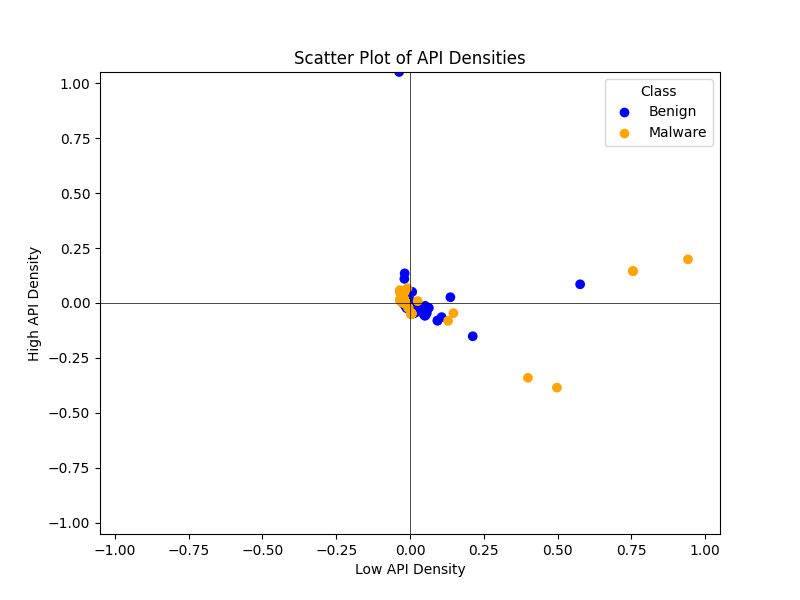
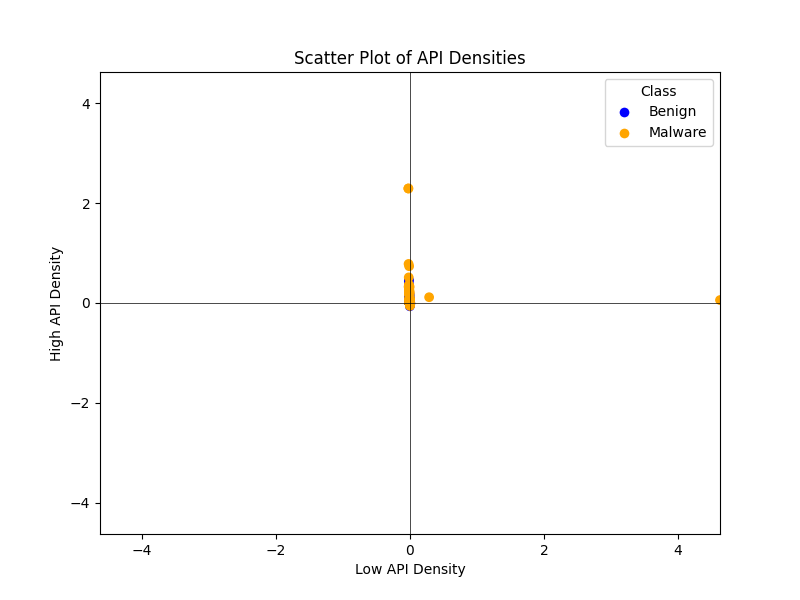
Optimize lime normal

diff --git a/lime_normal.py b/lime_normal.py
@@ -8,7 +8,10 @@ import pandas as pd
 import mlflow
 from lime.lime_tabular import LimeTabularExplainer
 from tqdm import tqdm
+import multiprocessing
+import warnings
 
+warnings.filterwarnings("ignore")
 #%% Parameters
 params = dvc.api.params_show()
 mca_data = pd.read_csv(params["train"]["mca"])
@@ -16,15 +19,28 @@ data_ben = np.load(f"{params['train']['benign']}")
 df_ben = pd.DataFrame(data_ben)
 #%% Load models
 explainer = LimeTabularExplainer(mca_data.values[:,:-1], feature_names=mca_data.columns[:-1], class_names=['Benign', 'Malicious'])
-mca = mlflow.pyfunc.load_model(f"runs:/{params['malgan']['id']}/mca")
-mca_classifier = mlflow.pyfunc.load_model(f"runs:/{params['malgan']['id']}/mca_classifier")
+mca = mlflow.pyfunc.load_model(f"runs:/{params['experiment']['id']}/mca")
+mca_classifier = mlflow.sklearn.load_model(f"runs:/{params['experiment']['id']}/mca_classifier")
 
+#%% Transform dataset
+print("Transforming benign dataset to MCA values")
+df = mca.predict(df_ben)
 #%% Get set
 normal = set()
-for i, obf in tqdm(df_ben.iterrows(), total=len(df_ben)):
-    exp = explainer.explain_instance(mca.predict([obf.values]).values[0], mca_classifier.predict_proba)
-    normal = normal | set([name for name, _ in exp.as_list()])
+
+def process_example(example):
+    exp = explainer.explain_instance(example, mca_classifier.predict_proba, num_samples=2000)
+    return set([name for name, _ in exp.as_list()])
+
+if __name__ == '__main__':
+    print("Processing benign examples")
+    with multiprocessing.Pool(processes=4) as pool:
+        results = tqdm(pool.imap_unordered(process_example, [example for _, example in df.iterrows()]), total=len(df), desc="Collecting normal features")
+        iter = tqdm(results, desc="Combining results")
+        for result in iter:
+            normal |= result
+            iter.set_description(f"Combining results ({len(normal)} features)")
     
 #%% Save set
-with open(params["normal_features"], "w") as f:
+with open(params["train"]["normal_features"], "w") as f:
     f.write(str(normal))

diff --git a/mca.py b/mca.py
@@ -1,7 +1,3 @@
-"""
-    Train MCA from training data.
-    The trained model will be able to project new entries to 2D space
-"""
 # %%
 import numpy as np
 import pandas as pd
@@ -15,22 +11,18 @@ run_id = params["experiment"]["id"]
 params = params["train"]
 # Load the .npy file
 data_benign = np.load(f"{params['benign']}", mmap_mode='r')
-df_benign = pd.DataFrame(data_benign)
+df_benign = pd.DataFrame(data_benign).head(params["head"])
 
 data_malicious = np.load(f"{params['malware']}", mmap_mode='r')
-df_malicious = pd.DataFrame(data_malicious)
+df_malicious = pd.DataFrame(data_malicious).head(params["head"])
 
 df = pd.concat([df_benign, df_malicious], ignore_index=True)
 
 #%%
-print(df.shape)
+
 mca = prince.MCA(n_components=2, n_iter=3)
-print("Starting training MCA")
 mca = mca.fit(df)
-print("Finished training MCA")
-print("Starting transform")
 transformed_data = mca.transform(df)
-print("Finished transform")
 transformed_data.columns = ["Low API Density", "High API Density"]
 
 # Create labels for each class

diff --git a/main.py b/main.py
@@ -145,7 +145,7 @@ def main():
                     g_hidden=args.activation,
                     detector_type=args.detector)
     
-    with helpers.experiment.startExperiment(dvc.api.params_show()["experiment"]["name"]):
+    with helpers.experiment.startExperiment(dvc.api.params_show()["train"]["name"]) as exp:
         mlflow.autolog()
         mlflow.enable_system_metrics_logging() 
         mlflow.log_params(vars(args))
